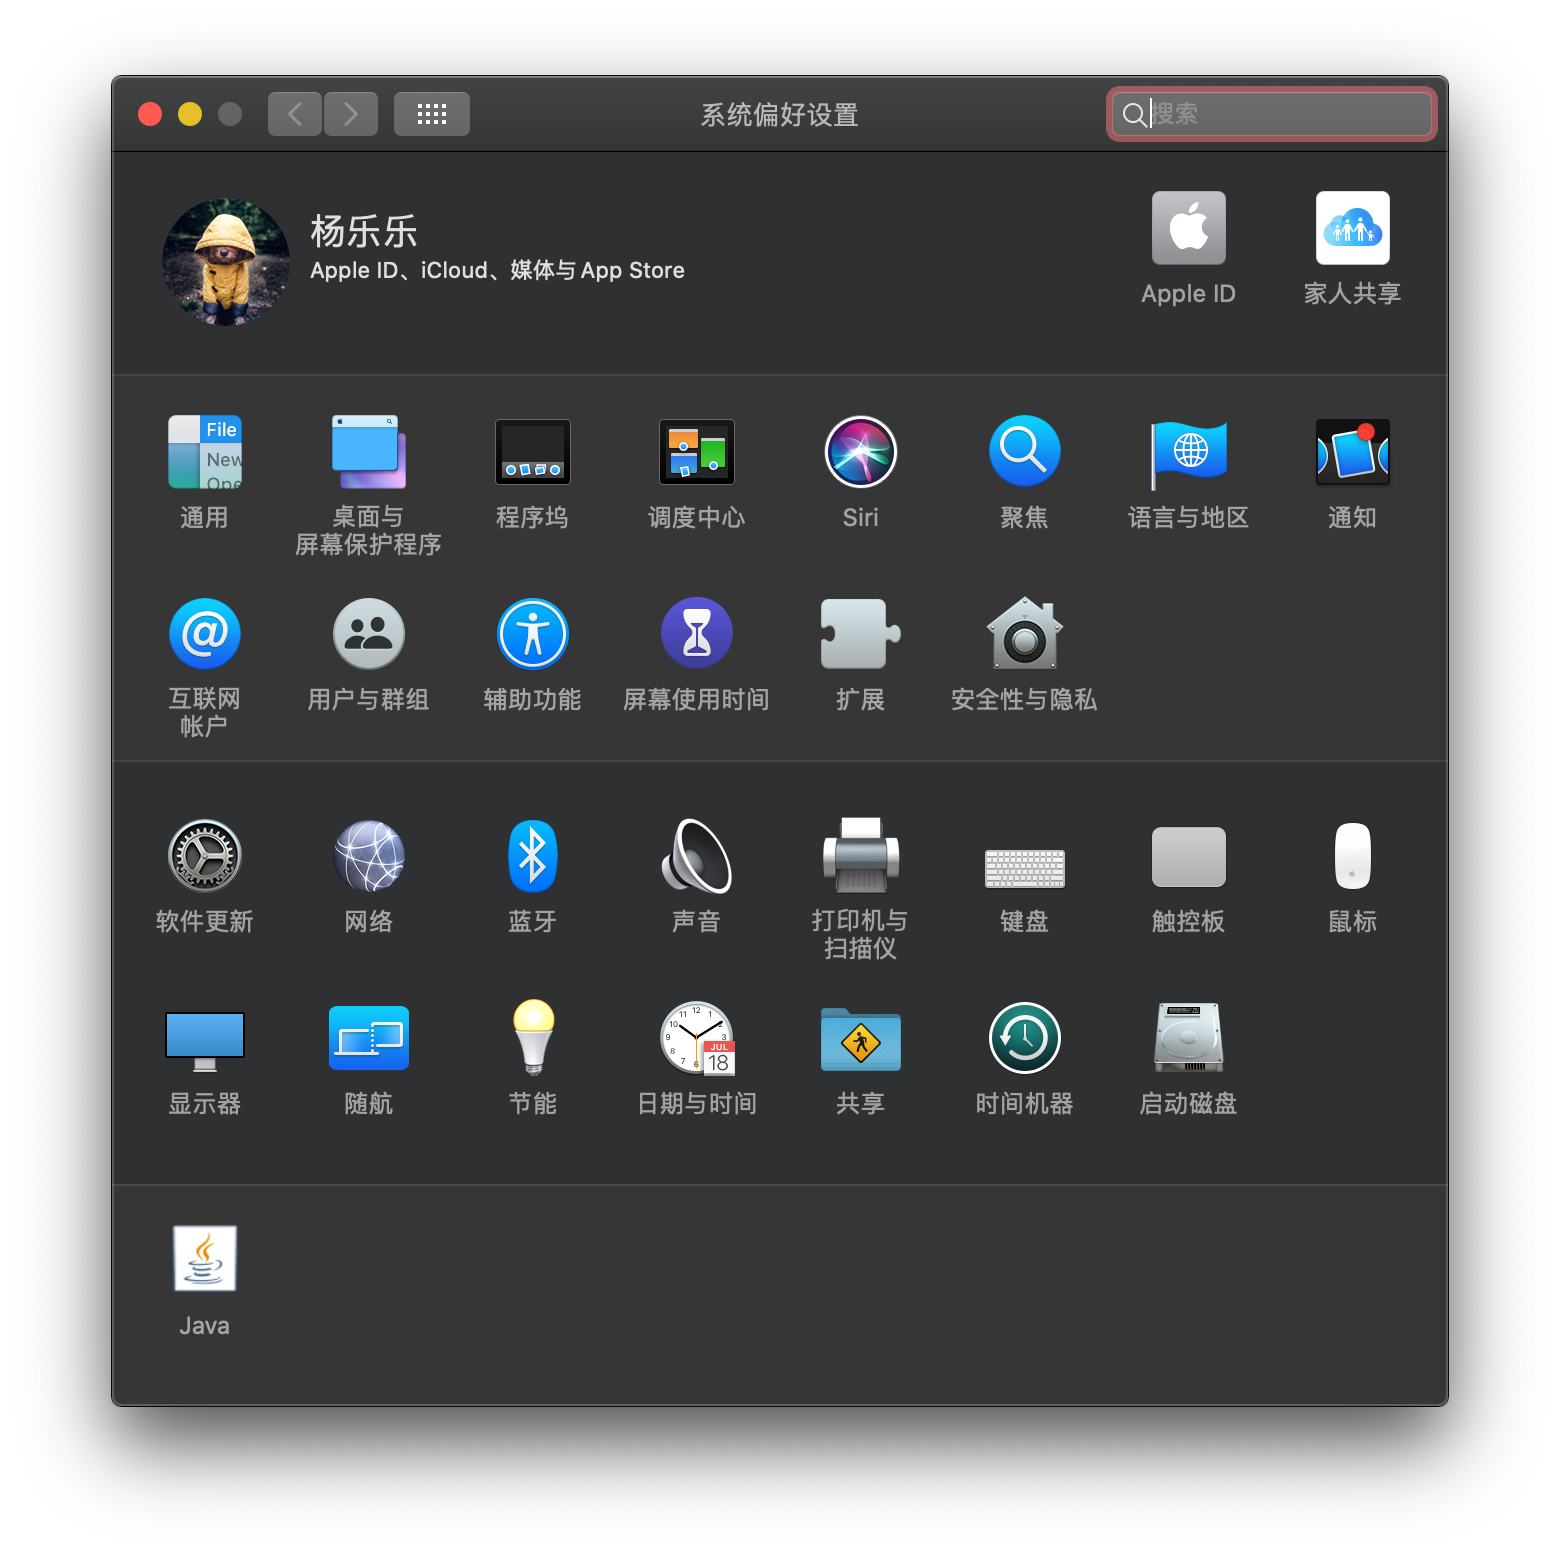
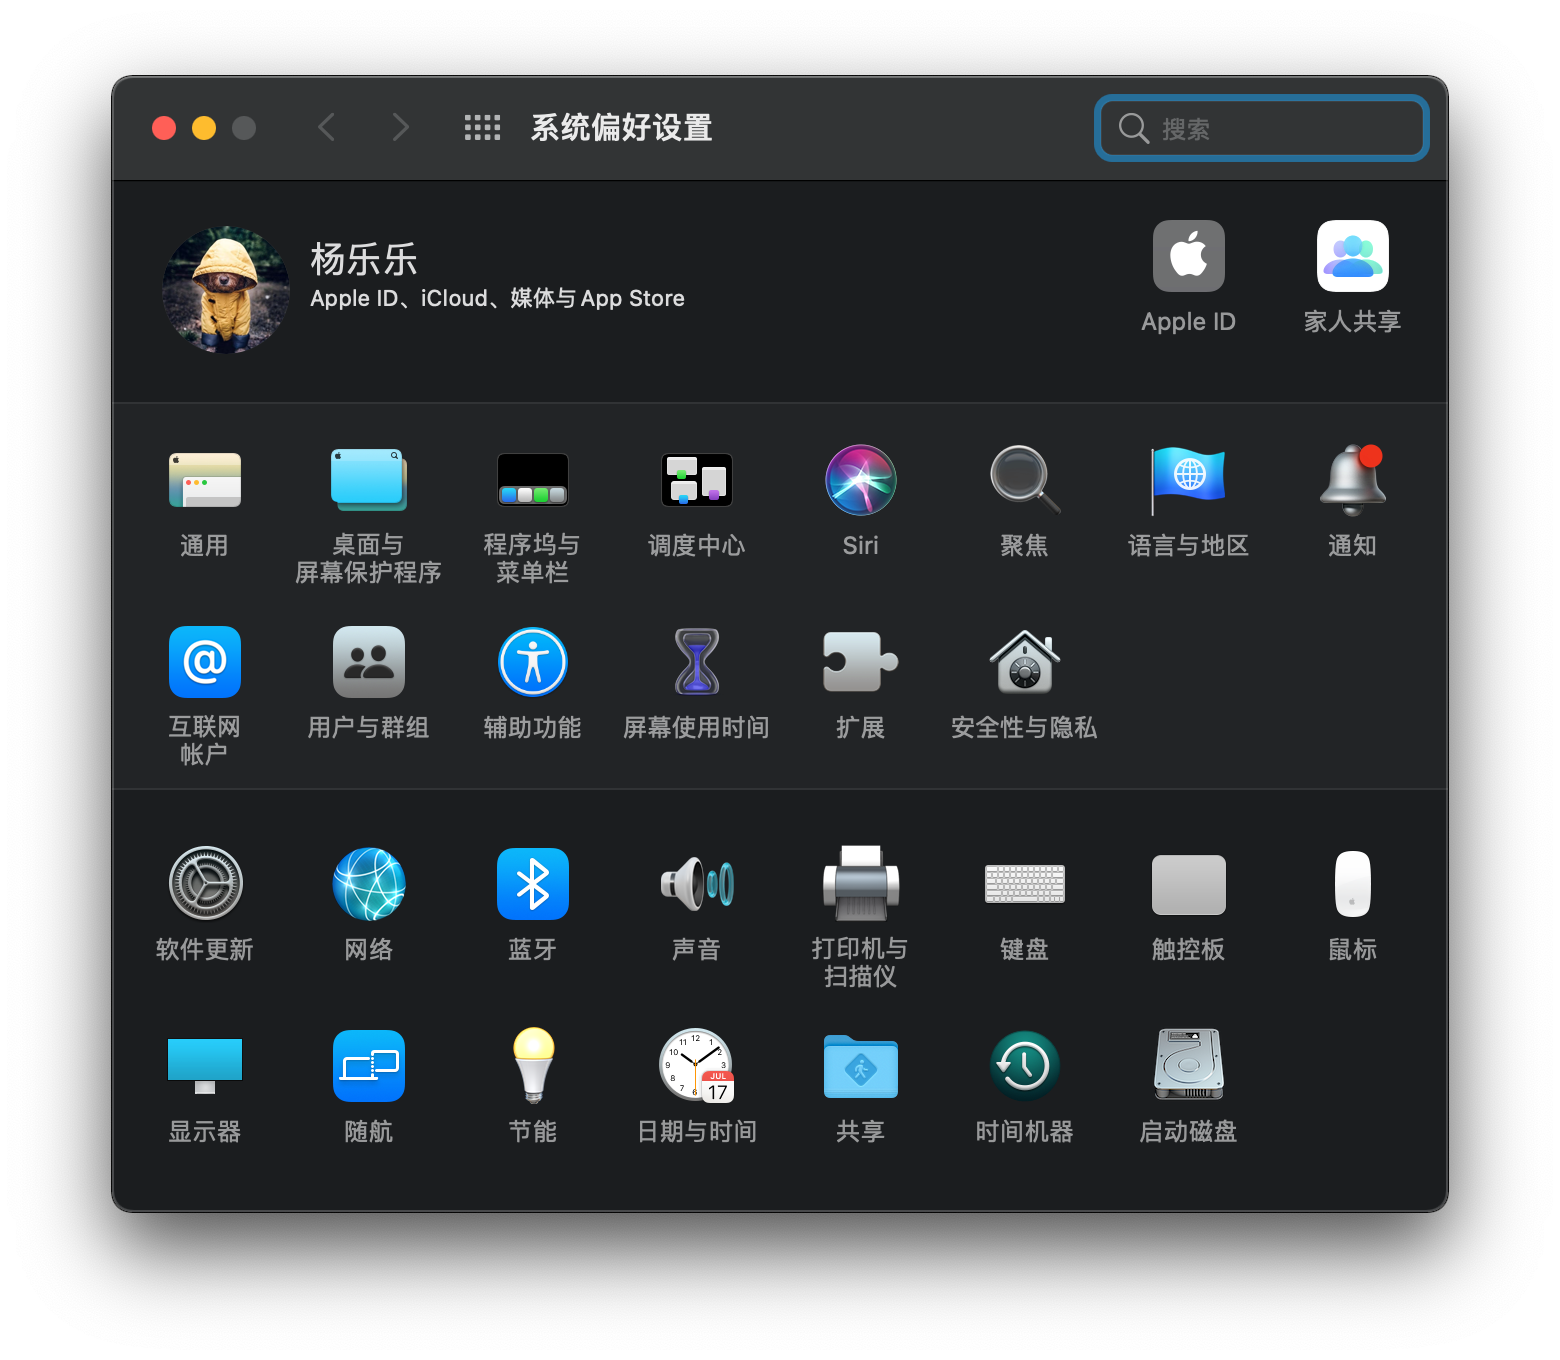
feat: update 11.0.1

diff --git a/README.md b/README.md
@@ -2,6 +2,8 @@
 
 
 
+已更新至`macOS Big Sur`，所有功能与之前保持一致，均可正常使用。
+
 ## 使用方式
 
 1.  已切换为最新的 [OpenCore](https://github.com/acidanthera/OpenCorePkg)引导系统，可日常正常使用。

diff --git a/update.md b/update.md
@@ -1,5 +1,13 @@
 ## 更新日志
 
+### 2020-11-21
+
+> 升级到 11.0.1 全新版本
+
++   Update `OpenCore` v0.6.3
+
+升级到最新版本，正常功能与之前保持一致，均可正常使用
+
 ### 2020-10-16
 
 > 升级到 10.15.7 正式版
